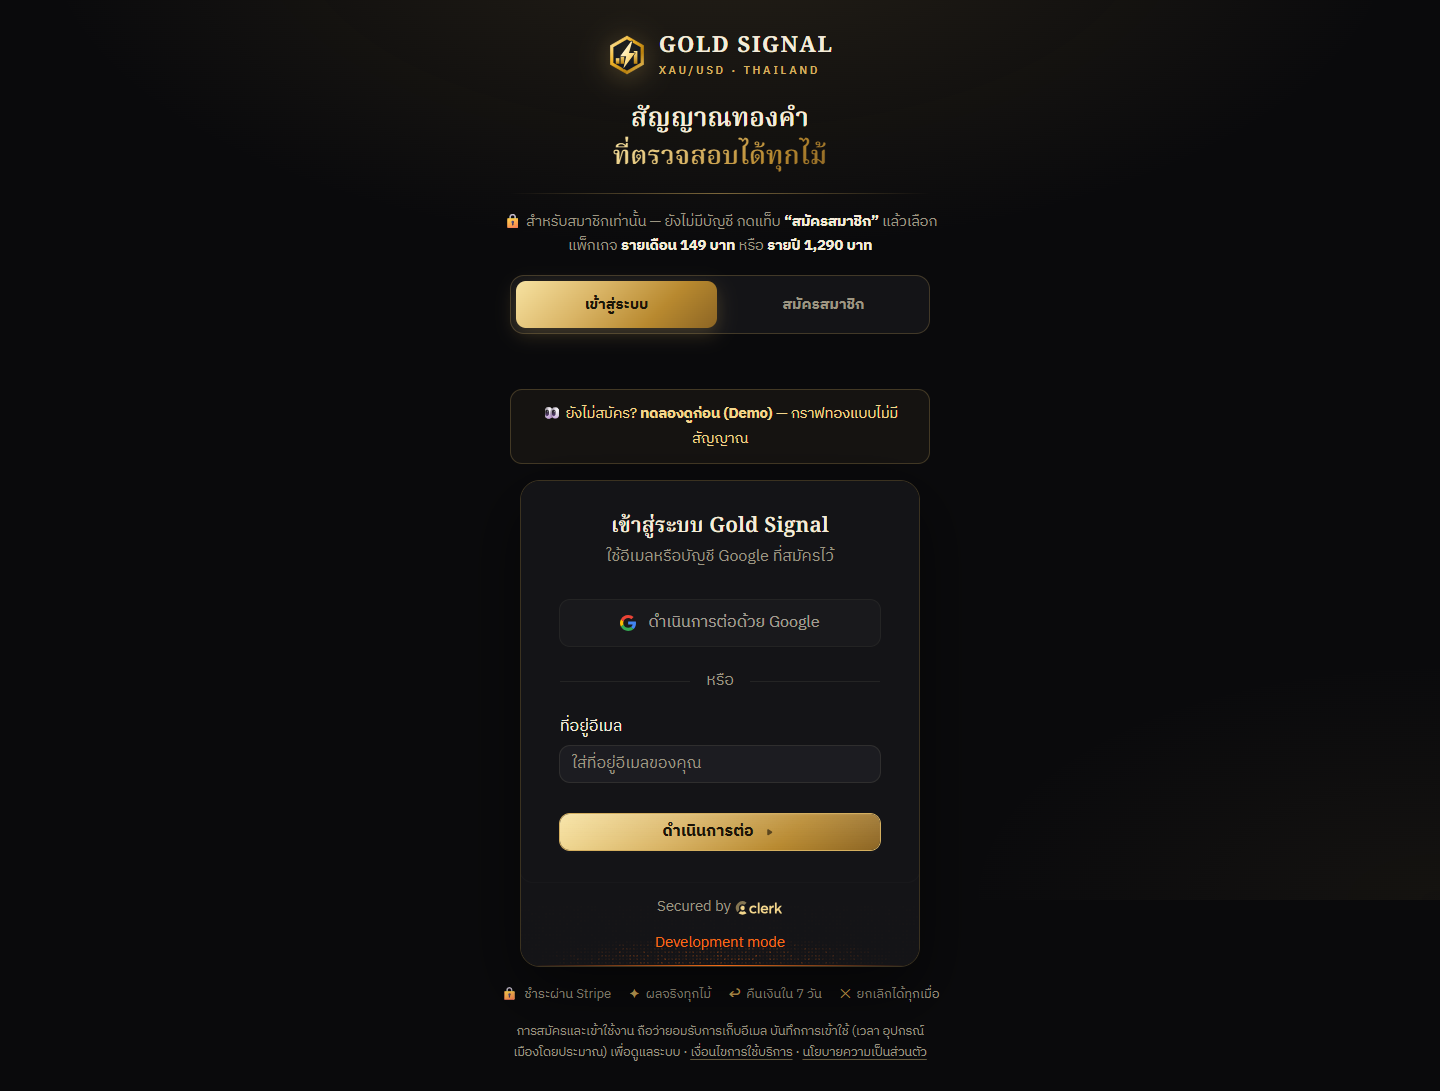
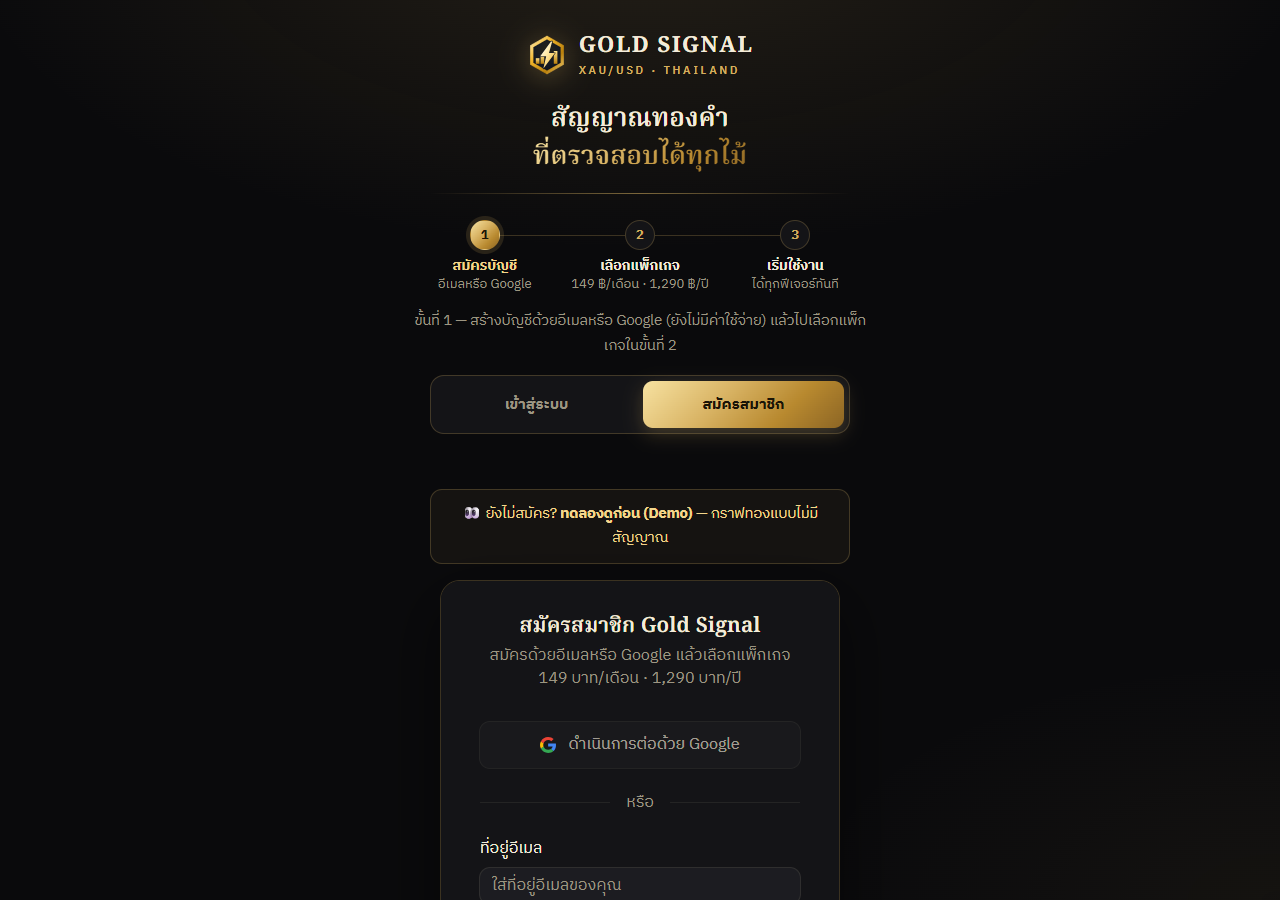
README: sign-up steps screenshot + onboarding features; Skill.md routine: update GitHub after Skill.md

diff --git a/README.md b/README.md
@@ -32,7 +32,7 @@
 <td><img src="docs/img/pricing.png" alt="Pricing"><br><sub><b>แพ็กเกจสมาชิก</b> — ชำระผ่าน Stripe (บัตร / PromptPay)</sub></td>
 </tr>
 <tr>
-<td><img src="docs/img/login.png" alt="Sign in"><br><sub><b>การสมัครและเข้าสู่ระบบ</b> — อีเมลหรือบัญชี Google</sub></td>
+<td><img src="docs/img/login.png" alt="Sign up"><br><sub><b>การสมัครสมาชิก</b> — ขั้นตอน 3 ขั้น (สมัครบัญชี → เลือกแพ็กเกจ → เริ่มใช้งาน) พร้อมคำถามที่พบบ่อย</sub></td>
 <td><img src="docs/img/marketing.png" alt="Back office"><br><sub><b>ระบบหลังบ้าน</b> — ผู้ช่วยร่างประกาศการตลาดจากข้อมูลจริง</sub></td>
 </tr>
 </table>
@@ -49,6 +49,7 @@
 | **Notifications** | LINE Official Account และ Web Push · การแจ้งเตือนราคาที่กำหนดเอง · การแจ้งเตือนก่อนสมาชิกภาพหมดอายุ |
 | **AI Coach** | ผู้ช่วย AI วิเคราะห์สัญญาณทุกกรอบเวลาและบันทึกการซื้อขายของสมาชิกก่อนให้คำแนะนำ |
 | **US Equities** | แดชบอร์ด Nasdaq 100, S&P 500, หุ้นปันผล และพอร์ตการลงทุนของนักลงทุนสถาบัน 28 รายจากรายงาน 13F |
+| **Onboarding** | หน้าสมัครแสดงขั้นตอน 3 ขั้นและคำถามที่พบบ่อย · หน้าต่างแนะนำการใช้งานหลังชำระเงิน · โหมดใช้งานแบบง่าย / แบบเทรดเดอร์ · ทัวร์แนะนำครั้งแรก · คำอธิบายศัพท์ |
 | **Membership & Billing** | Stripe Checkout (บัตรต่ออายุอัตโนมัติ / PromptPay) · การเปิด–ปิดสิทธิ์ผ่าน webhook · การคืนเงิน · โปรแกรมแนะนำเพื่อน |
 | **Back Office** | การจัดการสมาชิก บันทึกการเข้าใช้งาน บทความ สถานะระบบ รายงานรายได้ และผู้ช่วยร่างประกาศการตลาด |
 
